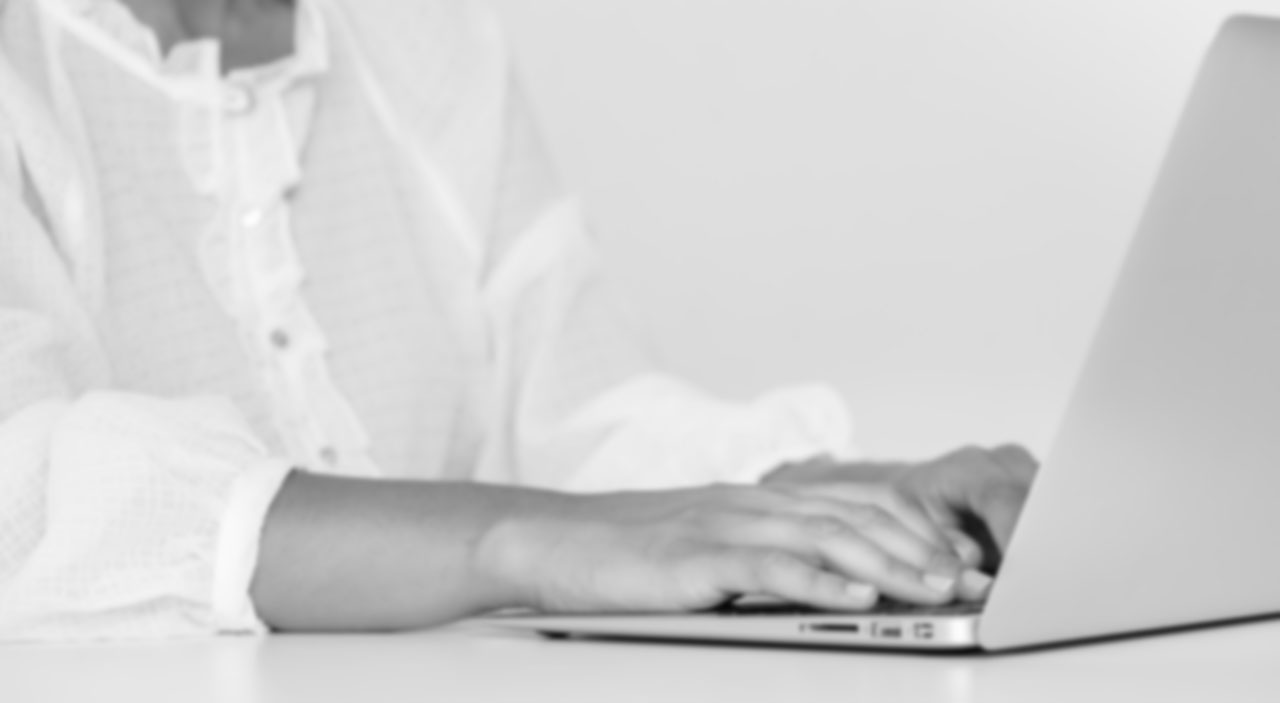
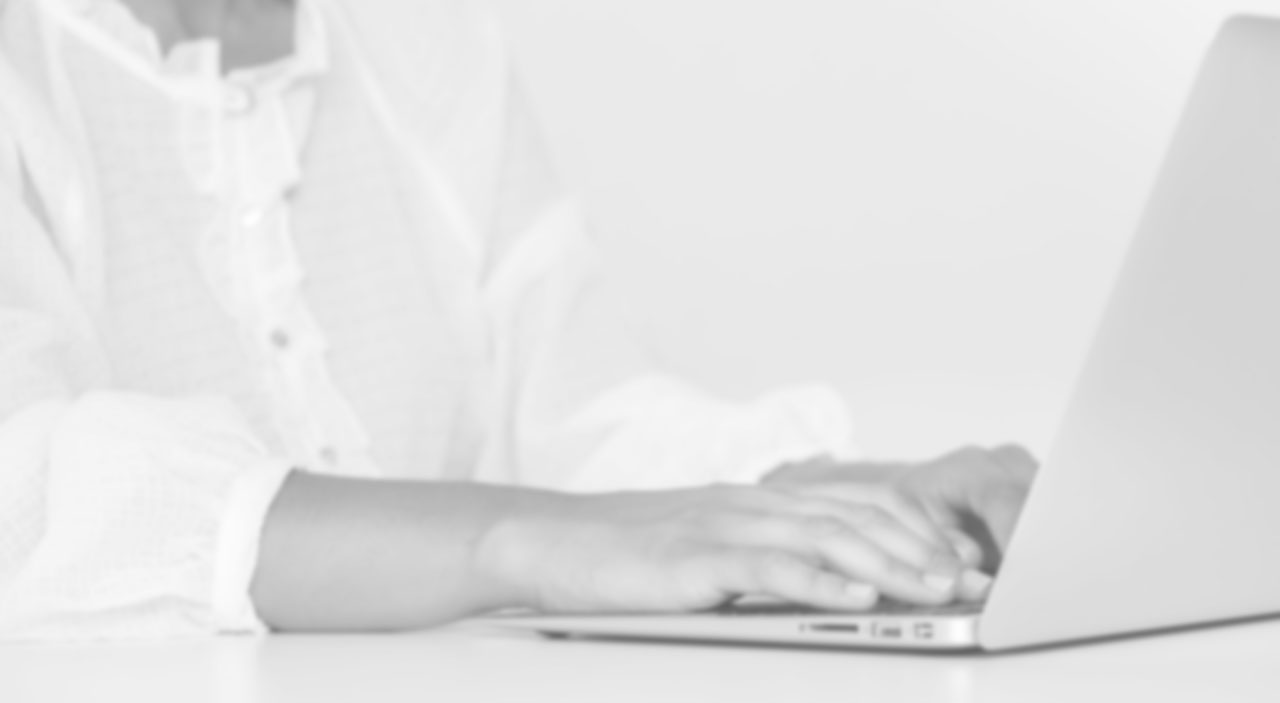
Mejora estilos página login

diff --git a/src/main/webapp/recursos/css/estilos.css b/src/main/webapp/recursos/css/estilos.css
@@ -5,7 +5,7 @@ html, body {
 .login-background {
 	background: url('../imagenes/login-background.jpg') center center;
 	background-size:cover;
-	opacity: 0.60;
+/* 	opacity: 0.60; */
 }
 
 .footer-background {
